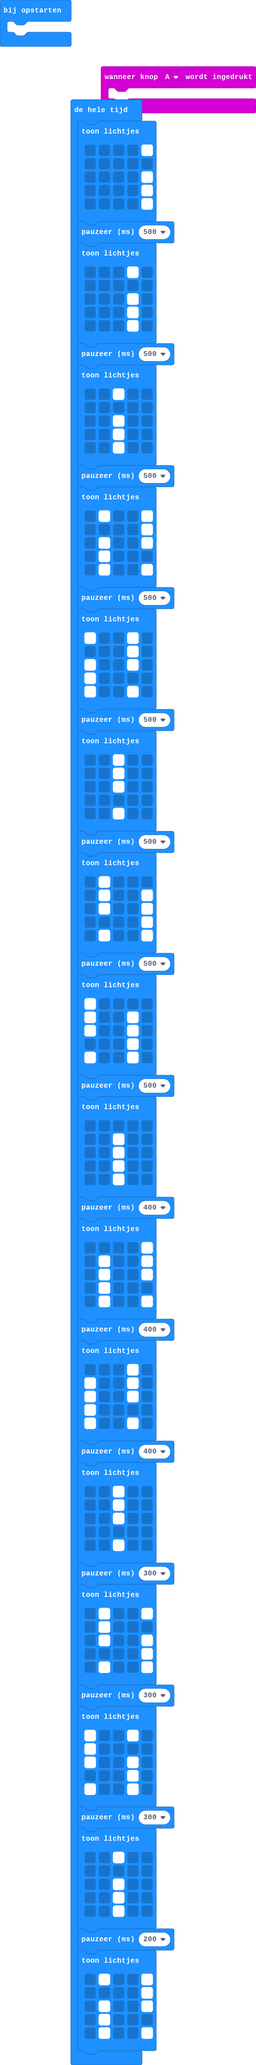
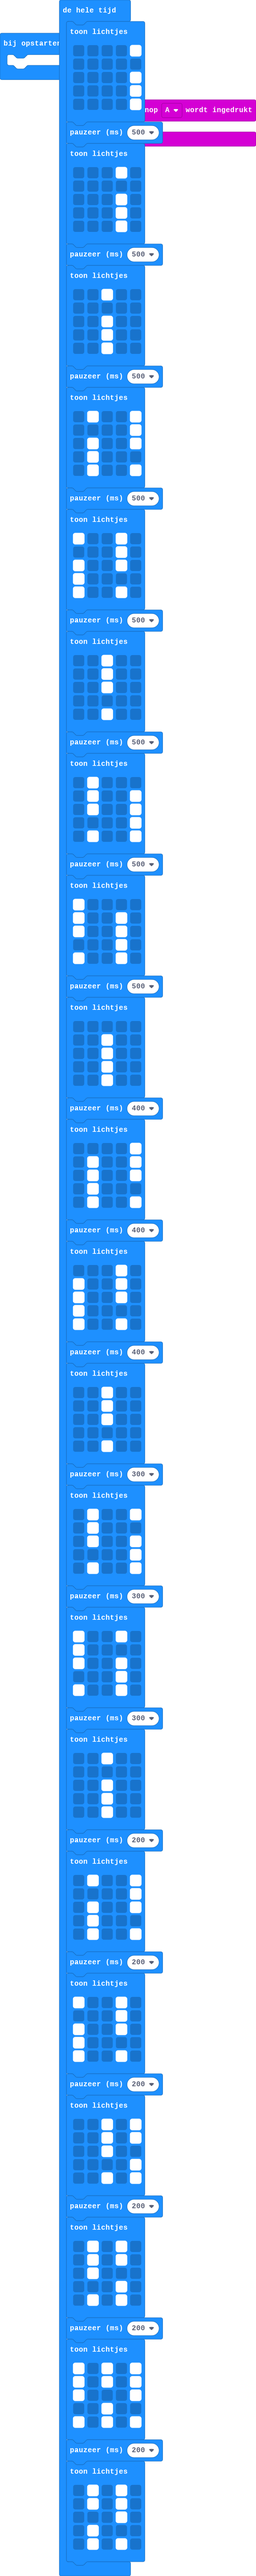
main.blocks, main.ts bijwerken

Changed region(s): [[0.0, 0.0, 1.0, 1.0]]

diff --git a/main.ts b/main.ts
@@ -129,4 +129,44 @@ basic.forever(function () {
         . # . . .
         . # . . #
         `)
+    basic.pause(200)
+    basic.showLeds(`
+        # . . # .
+        . . . # .
+        # . . # .
+        # . . . .
+        # . . # .
+        `)
+    basic.pause(200)
+    basic.showLeds(`
+        . . # . #
+        . . # . #
+        . . # . .
+        . . . . #
+        . . # . #
+        `)
+    basic.pause(200)
+    basic.showLeds(`
+        . # . # .
+        . # . # .
+        . # . . .
+        . . . # .
+        . # . # .
+        `)
+    basic.pause(200)
+    basic.showLeds(`
+        # . # . #
+        # . # . #
+        # . . . #
+        . . # . .
+        # . # . #
+        `)
+    basic.pause(200)
+    basic.showLeds(`
+        . # . # .
+        . # . # .
+        . . . # .
+        . # . . .
+        . # . # .
+        `)
 })
